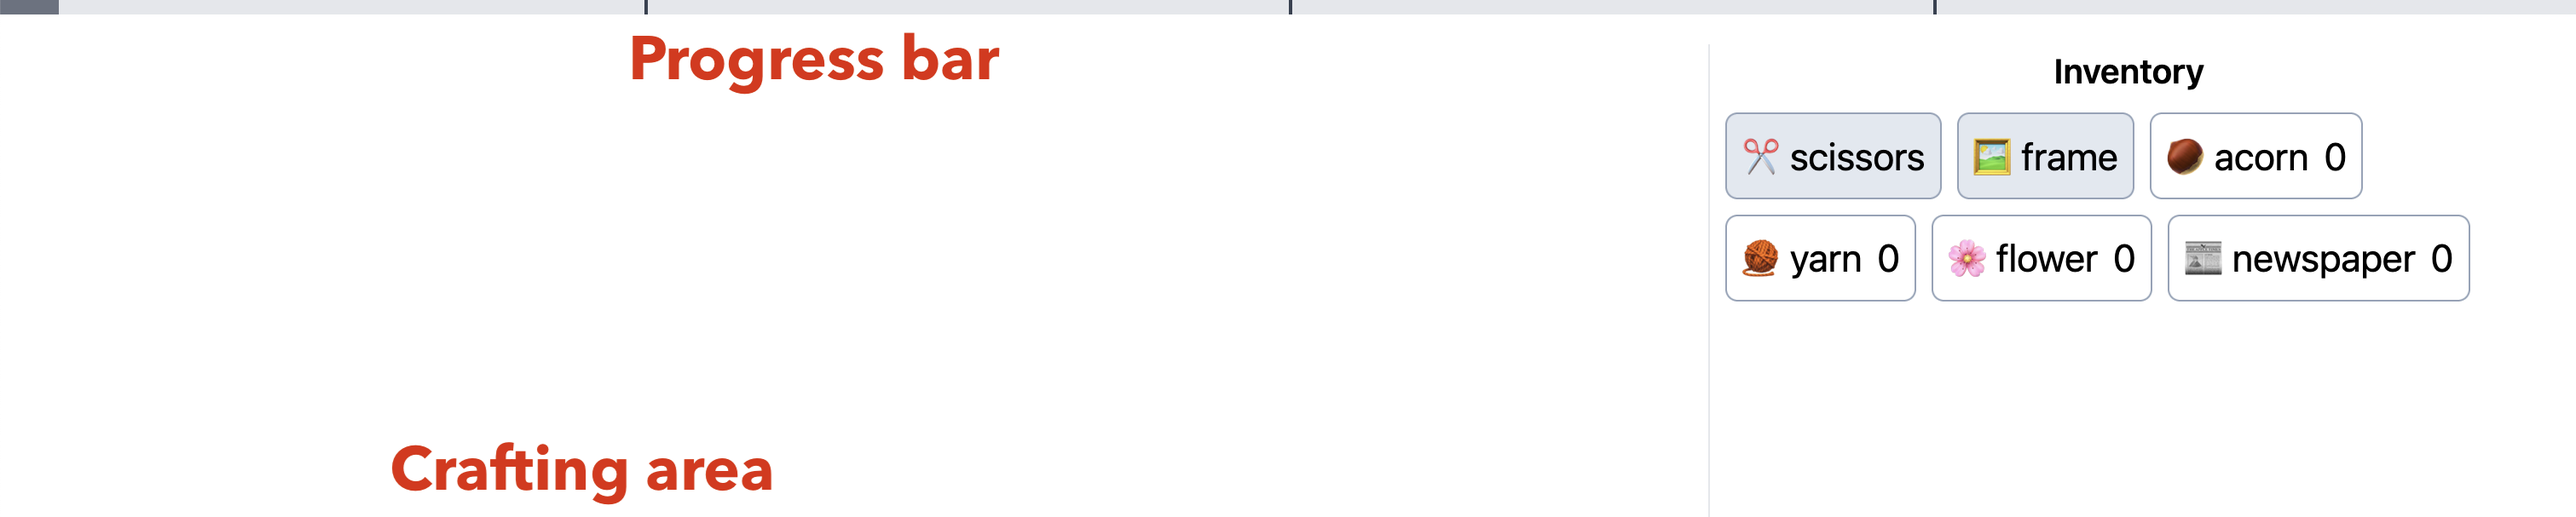
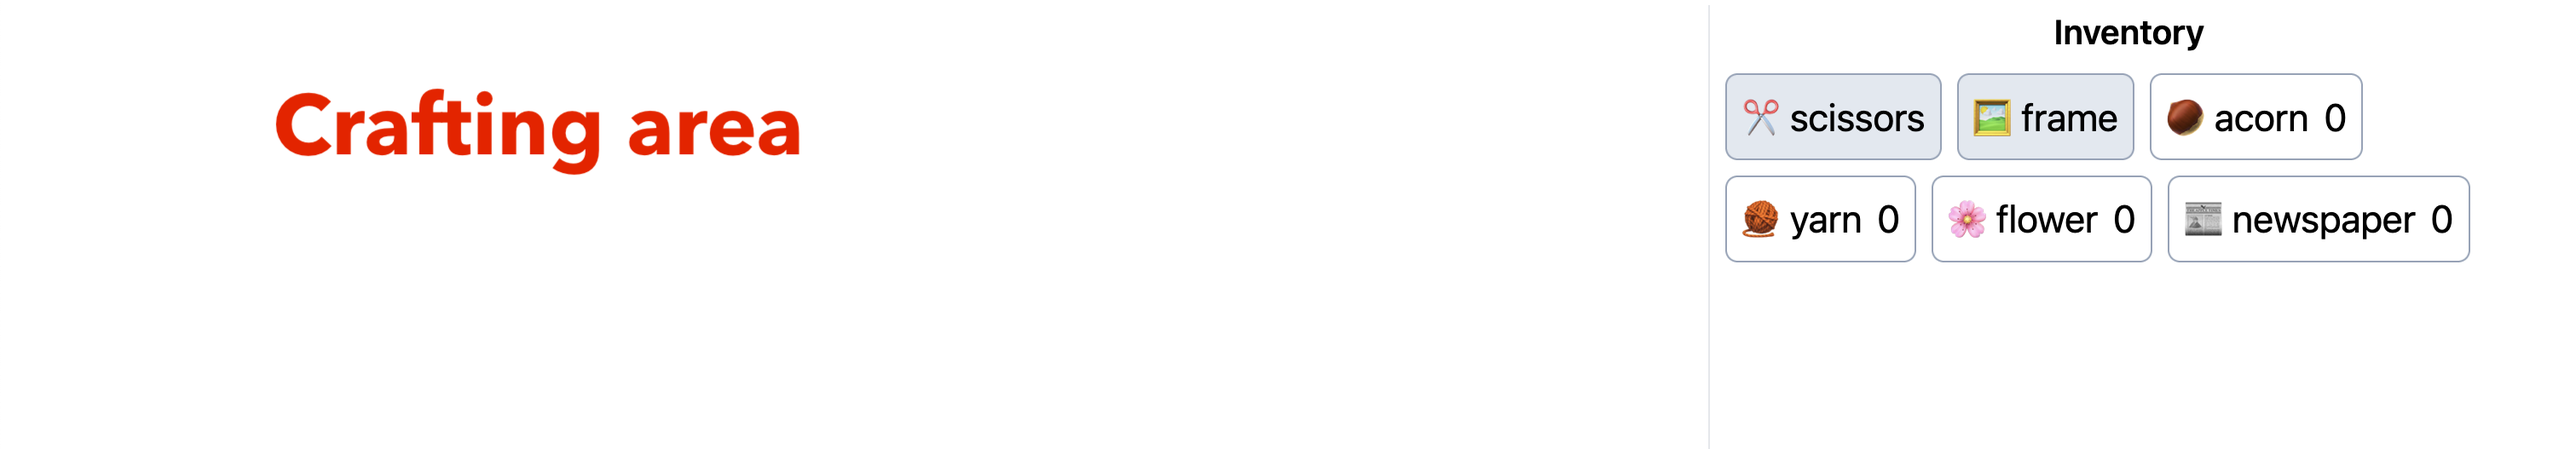
tweaks to instructions

diff --git a/consent.py b/consent.py
@@ -5,7 +5,7 @@ from psynet.timeline import Module, join
 
 time_estimate_min = 30
 base_payment = 6
-max_bonus = 2
+max_bonus = 1
 
 consent_form = div()
 
@@ -63,16 +63,6 @@ with consent_form:
         """,
     )
 
-    p(
-        strong("PRIVACY AND CONFIDENTIALITY:"),
-        """ The risks associated with this study are
-        minimal. Study data will be stored securely, in compliance with Stanford
-        University standards, minimizing the risk of confidentiality breach.
-        Your individual privacy will be maintained during the research and in
-        all published and written data resulting from the study.
-        """,
-    )
-
     p(strong("CONTACT INFORMATION:"))
 
     p(
@@ -100,7 +90,7 @@ with consent_form:
 
     p("Please save or print a copy of this page for your records.")
 
-    p('If you agree to participate in this research, please click "I agree" below.')
+    p("If you agree to participate in this research, please click “I agree” below.")
 
 
 consent = Module(

diff --git a/constants.py b/constants.py
@@ -15,7 +15,7 @@ BLOCK_HEADERS = {
     "decorations": """<div className="flex flex-col items-center text-left max-w-xl space-y-2">
       <h1 className="text-2xl font-bold">Decorations</h1>
       <p className="text-lg w-full">
-        In this game, you will combine common objects and modify them to make decorations.
+        In this game, you will combine and modify common objects to make decorations.
       </p>
     </div>""",
     "potions": """<div className="flex flex-col items-center text-left max-w-xl space-y-2">
@@ -29,7 +29,7 @@ BLOCK_HEADERS = {
     <h1 className="text-2xl font-bold">Practice Game</h1>
     <p className="text-lg w-full">
       Before playing the main game, you will play a simplified practice game. In
-      this game, the ingredients are all playing cards. Your goal is to make a good hand of cards.
+      this game, the ingredients are all playing cards.
     </p>
     <p className="text-lg w-full">
       This game will repeat until you earn a score of 80 or more.

diff --git a/instructions.py b/instructions.py
@@ -15,8 +15,7 @@ with page1:
     )
     p(
         """
-        The game interface is shown below. It has an inventory of items, a
-        crafting area, and a progress bar.
+        The game interface is shown below. It has an inventory of items and a crafting area.
         """
     )
     img(
@@ -98,7 +97,7 @@ with page2:
         Your score can't go below 0, even if all of your items have negative
         values.
         """,
-        strong("The maximum possible score is 100 in every round"),
+        strong("The maximum possible score is 100 in every round."),
         """
         You will earn a
         """,
@@ -202,7 +201,7 @@ with page3_individual:
         """,
         but
         """,
-        strong("different starting ingredients"),
+        strong("different starting ingredients."),
     )
     p(
         """

diff --git a/experiment.py b/experiment.py
@@ -123,7 +123,7 @@ def assign_to_condition(participant, experiment):
 
 
 DOMAINS = ["cooking", "decorations", "animals", "potions"]
-CHAINS_PER_DOMAIN = 1
+CHAINS_PER_DOMAIN = 20
 
 chain_starting_nodes = []
 individual_starting_nodes = []
@@ -139,7 +139,7 @@ class Exp(psynet.experiment.Experiment):
     label = "Crafting Game"
     n_chains = CHAINS_PER_DOMAIN * len(DOMAINS)
     chain_length = 4
-    n_immortal_individuals = 0
+    n_immortal_individuals = 80
 
     variables = {
         "world_models": {},

diff --git a/crafting_classes.py b/crafting_classes.py
@@ -358,7 +358,7 @@ class MessagePassingNode(ImitationChainNode):
 
 class CraftingGameChainTrialMaker(ImitationChainTrialMaker):
     # 20 minute timeout for chain trials
-    response_timeout_sec = 2 * 60
+    response_timeout_sec = 20 * 60
 
     def choose_block_order(self, experiment, participant, blocks):
         block_order = random.sample(list(blocks), len(blocks))
